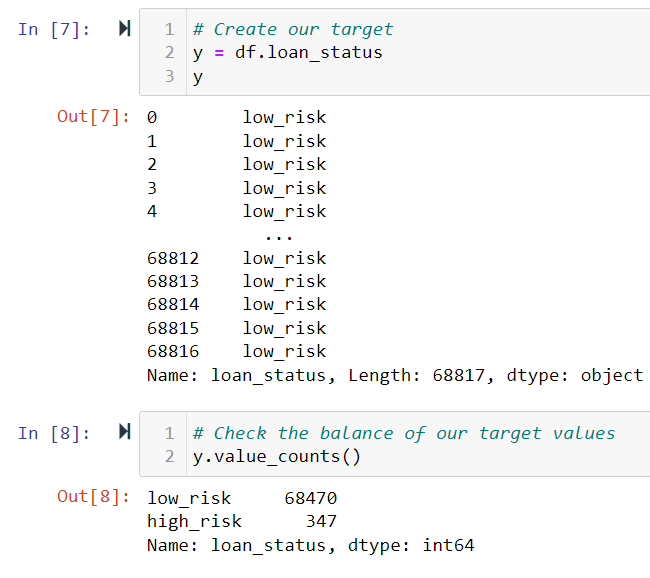
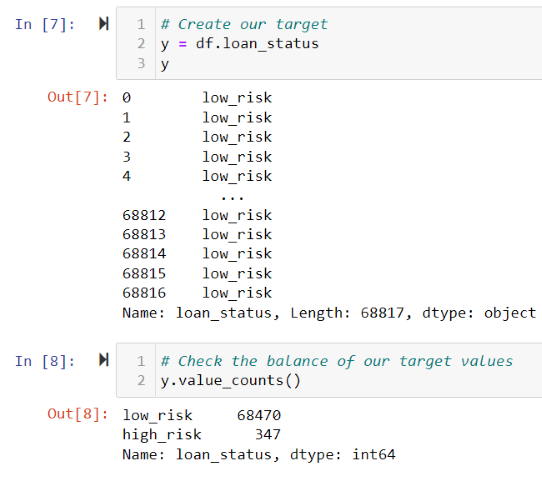
10/16 2:13 pm

diff --git a/README.md b/README.md
@@ -18,8 +18,9 @@ Before any of the techniques could be used, the data had to be cleaned and sorte
 The features included everything except "loan_status". Here is a snapshot of the features data frame called “X”:
 ![](Resources/X_group.png)
 The target group only contain the "loan_status". Here is a snapshot of the target data called “y”:
-![](Resources/y_group.png)
-
+<p align="center">
+<img src="Resources/y_group.png" alt="y_group" style="width:250px;"/>
+</p>
 After separating into 2 groups, the “train_test_split” method from SKLEARN was used to further split
 the data into the 4 groups of X_train, X_test, y_train, and y_test.
 ![](Resources/train_test_groups.png)
